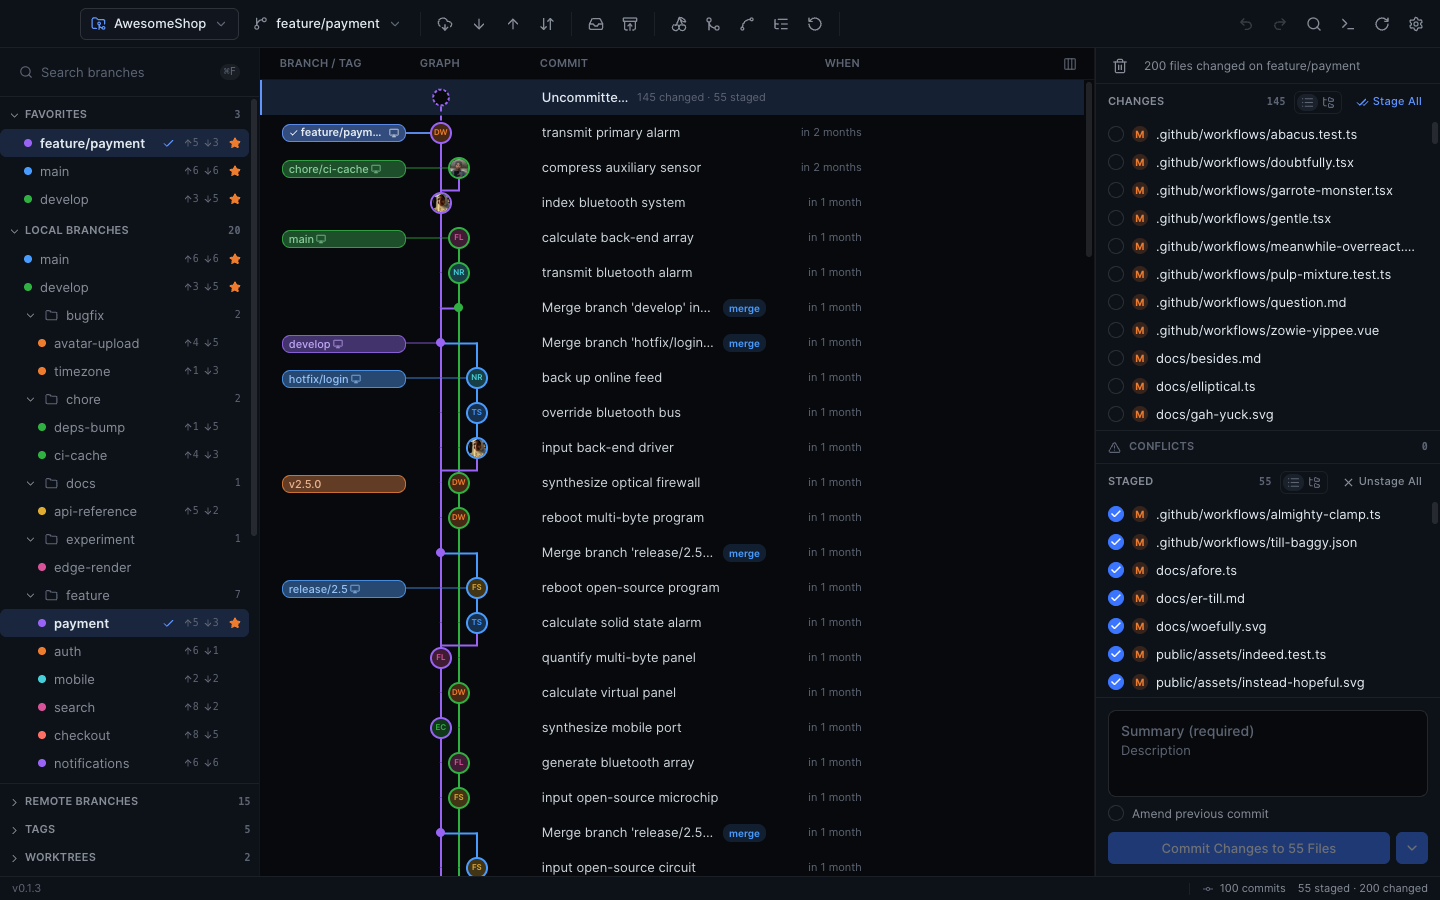
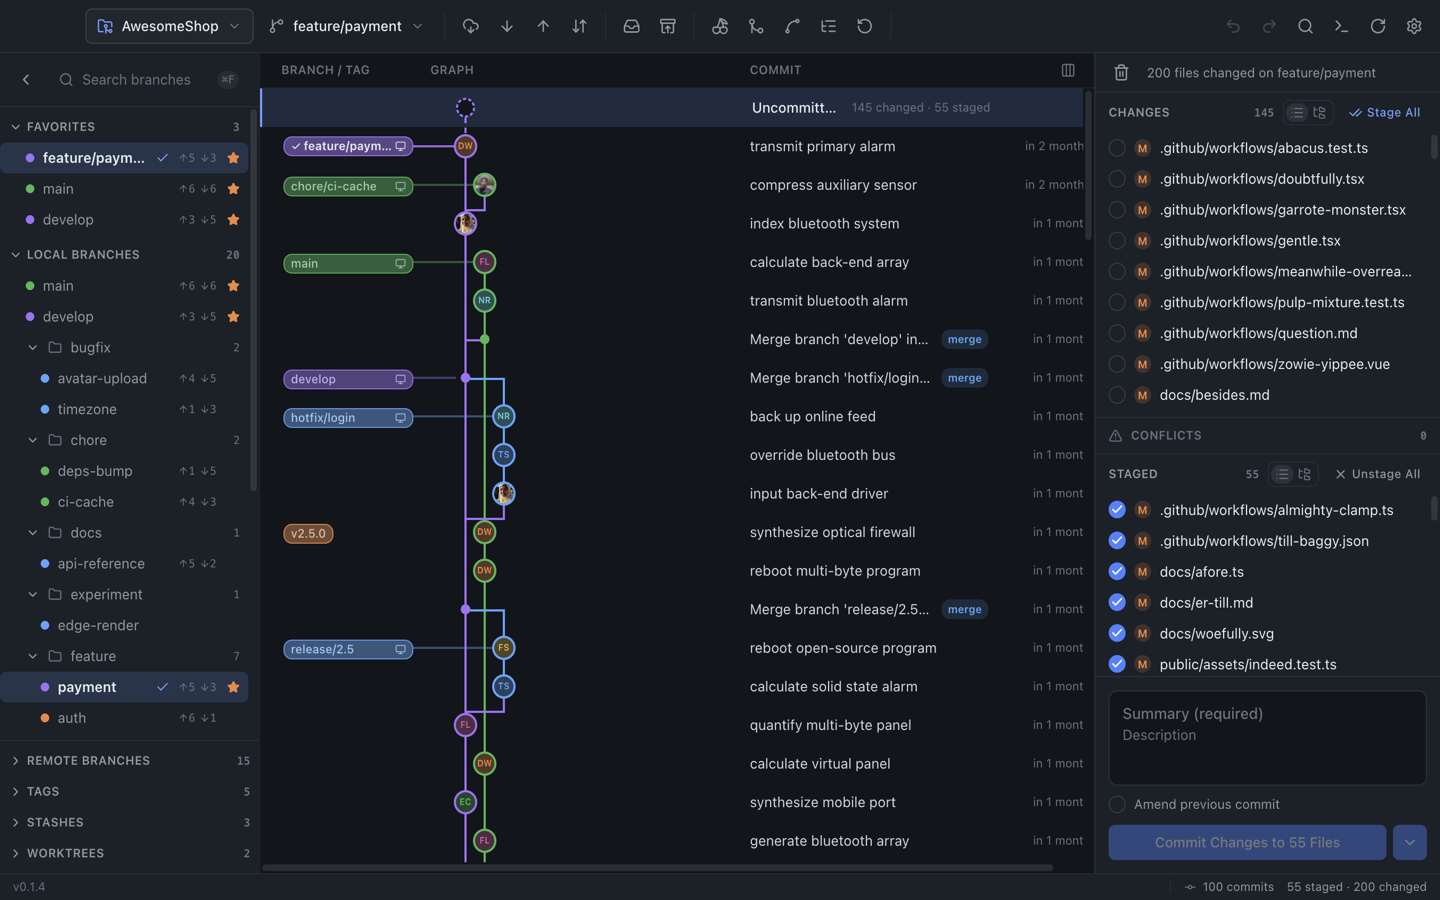
Updating docs

diff --git a/docs/index.html b/docs/index.html
@@ -492,7 +492,7 @@
             </div>
             <img
               src="screenshot.png"
-              alt="Git Light showing the AwesomeShop repository view with commit graph, branch sidebar, and working tree panel"
+              alt="Git Light showing the AwesomeShop repository with commit graph, branch sidebar, working tree, and resizable three-pane layout"
               class="screenshot"
               width="1440"
               height="900"
@@ -553,9 +553,19 @@
               <p>Settings credits panel with project links and open-source licenses. Native About dialog on all platforms.</p>
             </div>
             <div class="feature-card">
+              <div class="feature-icon" style="background: rgba(110,159,255,0.12); color: var(--accent)">▸</div>
+              <h3>Integrated terminal</h3>
+              <p>Toggle an in-app shell at the repo root with ⌘T — xterm.js backed by node-pty in the main process.</p>
+            </div>
+            <div class="feature-card">
+              <div class="feature-icon" style="background: rgba(163,113,247,0.12); color: var(--lane-0)">◐</div>
+              <h3>Themes</h3>
+              <p>Default, Dracula, Light, Claude, or System appearance — pick in settings and sync the window chrome.</p>
+            </div>
+            <div class="feature-card">
               <div class="feature-icon" style="background: rgba(63,185,80,0.12); color: var(--fg-muted)">◆</div>
-              <h3>Dark-first design</h3>
-              <p>Dense, professional aesthetic tuned for long sessions — inspired by GitKraken's visual language.</p>
+              <h3>Polished layout</h3>
+              <p>Collapsible sidebars with expand rails, resizable panes, and commit graph zoom for dense history views.</p>
             </div>
           </div>
         </div>
@@ -572,6 +582,8 @@
             <span class="stack-tag">Pinia</span>
             <span class="stack-tag">reka-ui</span>
             <span class="stack-tag">Tailwind CSS 4</span>
+            <span class="stack-tag">xterm.js</span>
+            <span class="stack-tag">node-pty</span>
             <span class="stack-tag">Vitest</span>
             <span class="stack-tag">electron-vite</span>
           </div>

diff --git a/ARCHITECTURE.md b/ARCHITECTURE.md
@@ -10,6 +10,7 @@ Git Light is an Electron desktop app with a Vue 3 renderer. The UI depends on a 
 | UI | Vue 3, Pinia, Tailwind v4, reka-ui |
 | Build | electron-vite, TypeScript |
 | Git | Native `git` CLI in main process |
+| Terminal | xterm.js + node-pty (in-app panel) |
 | File watch | chokidar (debounced 150ms) |
 
 ## Process model
@@ -37,7 +38,7 @@ Git Light is an Electron desktop app with a Vue 3 renderer. The UI depends on a 
 |--------|---------|
 | `metadata.ts` | App name, version, homepage, repository URL (from `package.json`) |
 | `credits.ts` | App links, third-party attribution list, `formatAboutCredits()` for native About panel |
-| `ipc.ts` | Non-git IPC channels (electron-store, open external, window focus/blur) |
+| `ipc.ts` | Non-git IPC channels (electron-store, open external, window focus/blur, terminal PTY) |
 
 ### Git layer (`shared/git/`)
 
@@ -73,15 +74,18 @@ Git Light is an Electron desktop app with a Vue 3 renderer. The UI depends on a 
 | `IpcGitService.ts` | Production implementation via `window.electron.git` |
 | `MockGitService.ts` | Generated data; used when `VITE_USE_MOCK=true` or outside Electron |
 | `wireAdapter.ts` | Revives wire snapshots into domain types (`Date`, etc.) |
+| `themes.ts` / `applyTheme.ts` | Theme catalog, system preference resolution, CSS variable application |
+| `avatarCache.ts` | Cached author avatar images for commit rows |
 
 ## Main process (`electron/`)
 
 | File | Role |
 |------|------|
-| `main.ts` | Window lifecycle, About panel options, app menu, startup update check (packaged builds) |
+| `main.ts` | Window lifecycle, About panel options, app menu, theme-aware window background, startup update check (packaged builds) |
 | `menu.ts` | Application menu (About, Check for Updates, Help links) |
 | `updateCheck.ts` | Compares semver against GitHub Releases; prompts to download |
 | `preload.ts` | Exposes typed `window.electron` bridge |
+| `terminal/registerTerminalIpc.ts` | node-pty sessions; create/write/resize/kill + data/exit push events |
 
 ### Git layer (`electron/git/`)
 
@@ -104,7 +108,7 @@ Git Light is an Electron desktop app with a Vue 3 renderer. The UI depends on a 
 | `repoDiff` | Selected file, diff/conflict loading, commit/compare file lists |
 | `selection` | Selected/hovered commit, shift-compare range |
 | `branchDrag` | Branch drag-and-drop state and integrate dialog payload |
-| `ui` | Layout prefs, graph columns, sidebar sections |
+| `ui` | Layout prefs, graph columns, sidebar sections, theme, terminal panel |
 | `interactiveRebase` | Interactive rebase dialog state |
 | `prompt` / `toast` | Modal and toast UI |
 
@@ -127,18 +131,19 @@ The `repository` store composes actions from `src/stores/repo/`:
 App.vue
 ├── StartupView          (no repo open)
 └── main view
-    ├── Toolbar          remote/history actions, repo switcher
+    ├── Toolbar          remote/history actions, repo switcher, terminal toggle
     ├── OperationBanner  merge/rebase/cherry-pick/revert in progress
+    ├── SidebarRail      expand affordance when left/right pane collapsed
     ├── Splitpanes
     │   ├── BranchSidebar       (drag-drop integrate dialog)
-    │   ├── CommitGraph         (virtualized + pending-changes row)
-    │   ├── CommitGraph (DiffPanel or ConflictPanel when a file is selected)
+    │   ├── CommitGraph         (virtualized graph + diff/conflict overlay)
+    │   │   └── optional TerminalPanel (resizable bottom split, xterm)
     │   └── WorkingTreePanel
     ├── StatusBar        ahead/behind, progress, cancel
     ├── PromptHost       confirm / prompt dialogs
     ├── SearchOverlay    commit + file search
     ├── InteractiveRebaseDialog
-    └── AppSettingsDialog  layout, graph, sidebar preferences, credits panel
+    └── AppSettingsDialog  appearance (theme), layout, graph, sidebar, credits
 ```
 
 ## Data flow
@@ -153,12 +158,13 @@ App.vue
 
 | Key | Storage |
 |-----|---------|
-| `git-light:preferences` | Panel sizes, collapsed state, graph/sidebar prefs (localStorage) |
+| `git-light:preferences` | Panel sizes, collapsed state, theme, graph/sidebar/terminal prefs (electron-store via preload; localStorage fallback in browser) |
 | `recent-repos` | Recent repository list (electron-store, main) |
 | `branch-favorites:{path}` | Per-repo pinned branches |
 
 ## Testing
 
+- `shared/git/avatar.test.ts` — Gravatar URL helpers
 - `shared/app/credits.test.ts` — About panel credits text and link lists
 - `electron/updateCheck.test.ts` — semver comparison for update checks
 - `electron/git/ActionRouter.test.ts` — action → git argv routing
@@ -182,6 +188,11 @@ App.vue
 - `src/lib/graph/pendingGraphRow.test.ts` — pending-changes graph row
 - `src/lib/graph/remapHeadLaneLeft.test.ts` — head lane remapping
 - `src/lib/graph/compareRange.test.ts` — shift-compare range normalization
+- `src/lib/graph/commitLaneBranchPreview.test.ts` — branch lane preview on hover
+- `src/lib/graph/syncBranchLaneColors.test.ts` — branch lane color sync
+- `src/lib/themes.test.ts` — theme preference resolution
+- `src/lib/sidebarLayout.test.ts` — sidebar collapse/expand layout
+- `src/lib/avatarCache.test.ts` — author avatar image cache
 - `src/lib/diff/buildSplitRows.test.ts` — split diff row builder
 - `src/lib/diff/highlight.test.ts` — syntax highlighting helpers
 - `src/features/branch-sidebar/sortBranches.test.ts` — branch sort order

diff --git a/README.md b/README.md
@@ -28,7 +28,10 @@ Git Light is an Electron app that recreates GitKraken's main repository view and
 | Merge / rebase / interactive rebase / cherry-pick (continue/abort banner) | ✅ |
 | Merge conflict resolution (ours/theirs/per-block) | ✅ |
 | Undo / redo (reflog-backed) · stash · search | ✅ |
-| Open on GitHub · app preferences (layout, graph, sidebar, credits) | ✅ |
+| Integrated terminal (xterm + node-pty, ⌘T toggle in graph pane) | ✅ |
+| Themes — Default, Dracula, Light, Claude, System (settings) | ✅ |
+| Collapsible sidebars with expand rails · commit graph zoom | ✅ |
+| Open on GitHub · app preferences (appearance, layout, graph, sidebar, credits) | ✅ |
 | Credits & attribution (settings panel + native About dialog) | ✅ |
 | Resizable three-pane layout · file watcher auto-refresh | ✅ |
 | Auto-update check (packaged builds) · **Check for Updates…** menu | ✅ |